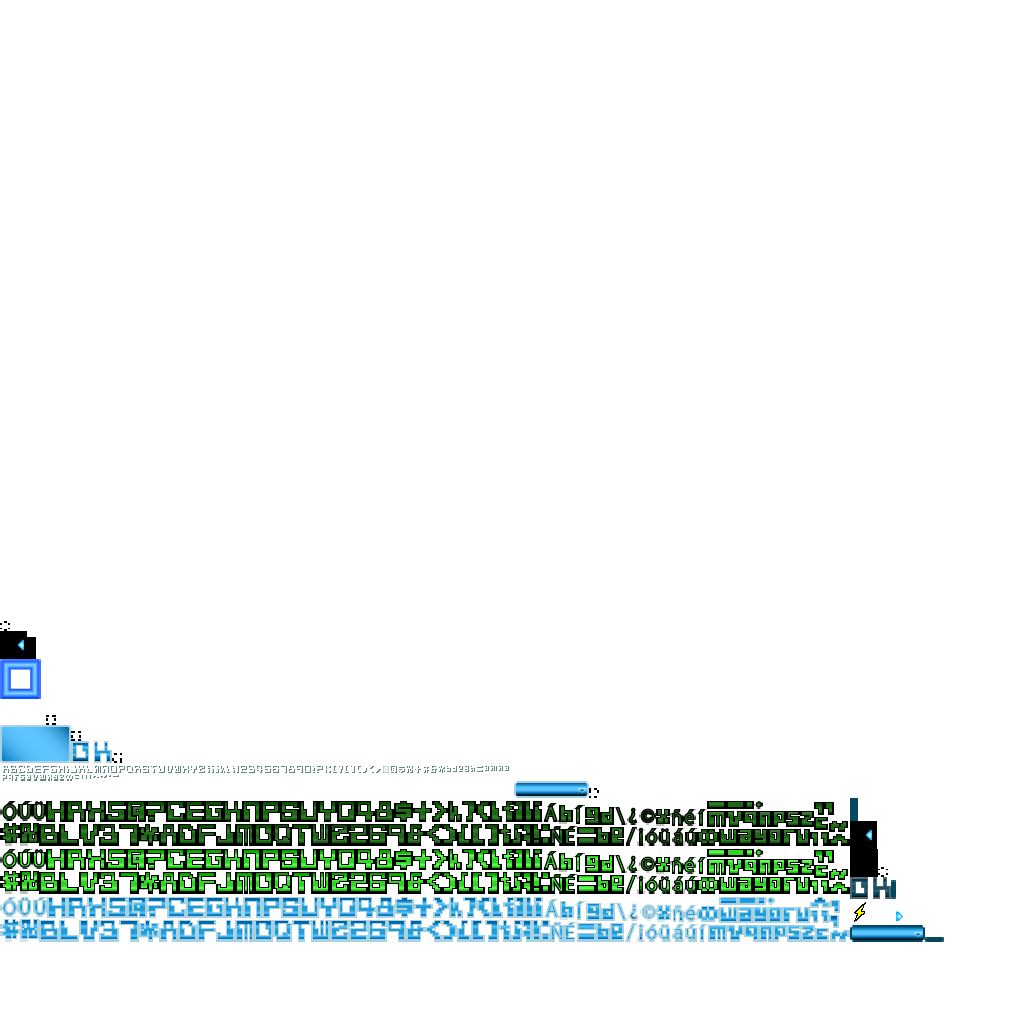
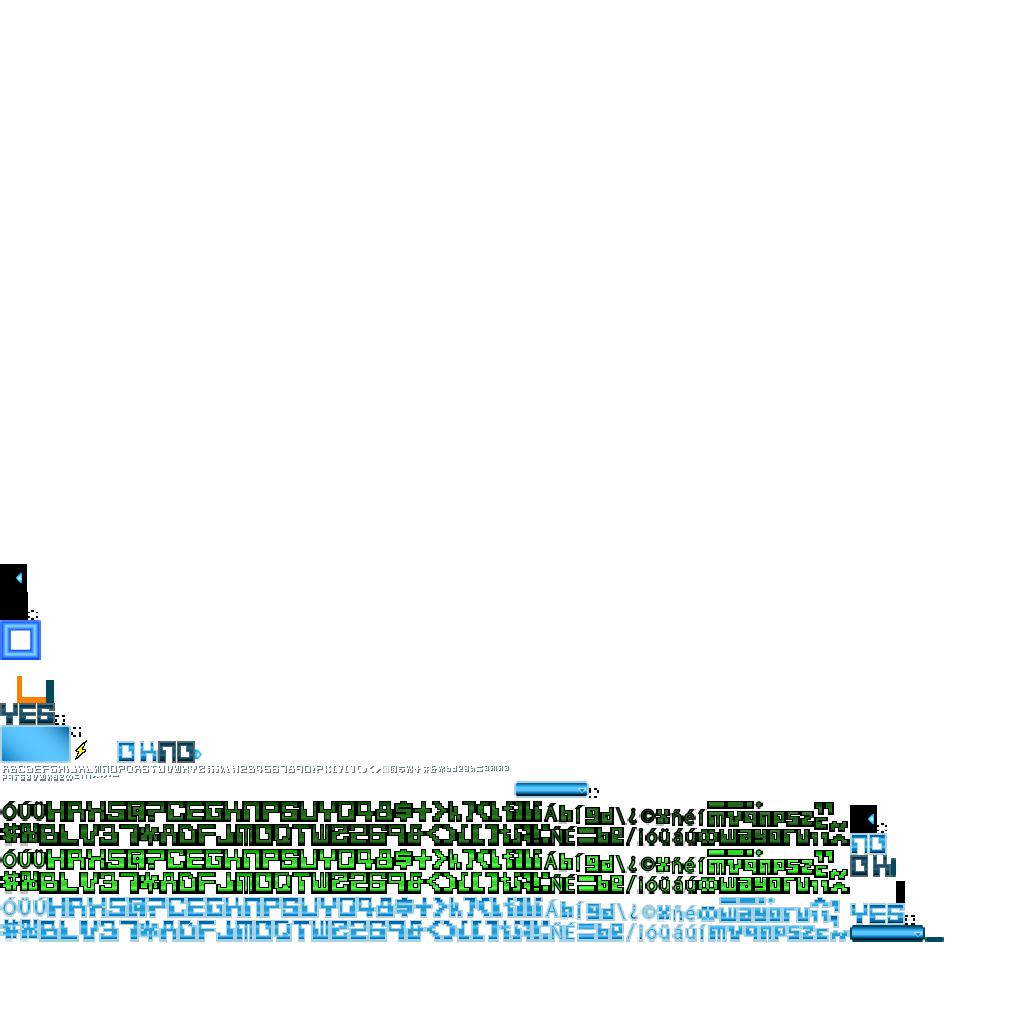
Added Graph simulation of acceleration.

Changed region(s): [[0.8125, 0.7812, 0.9062, 0.9062], [0.0, 0.5312, 0.0625, 0.7188], [0.0625, 0.7188, 0.2188, 0.75]]

diff --git a/core/src/com/ray3k/slipstreamui/Core.java b/core/src/com/ray3k/slipstreamui/Core.java
@@ -4,18 +4,16 @@ import com.badlogic.gdx.ApplicationAdapter;
 import com.badlogic.gdx.Gdx;
 import com.badlogic.gdx.graphics.Color;
 import com.badlogic.gdx.graphics.GL20;
-import com.badlogic.gdx.graphics.Pixmap.Format;
-import com.badlogic.gdx.graphics.Texture.TextureFilter;
-import com.badlogic.gdx.graphics.g2d.SpriteBatch;
-import com.badlogic.gdx.graphics.g2d.TextureRegion;
-import com.badlogic.gdx.graphics.glutils.FrameBuffer;
+import com.badlogic.gdx.math.Interpolation;
 import com.badlogic.gdx.scenes.scene2d.Actor;
 import com.badlogic.gdx.scenes.scene2d.Stage;
+import com.badlogic.gdx.scenes.scene2d.actions.TemporalAction;
 import com.badlogic.gdx.scenes.scene2d.ui.*;
 import com.badlogic.gdx.scenes.scene2d.utils.ChangeListener;
-import com.badlogic.gdx.utils.viewport.FitViewport;
 import com.badlogic.gdx.utils.viewport.StretchViewport;
-import com.badlogic.gdx.utils.viewport.Viewport;
+import space.earlygrey.shapedrawer.GraphDrawer;
+import space.earlygrey.shapedrawer.ShapeDrawer;
+import space.earlygrey.shapedrawer.scene2d.GraphDrawerDrawable;
 
 public class Core extends ApplicationAdapter {
 	private Skin skin;
@@ -45,10 +43,22 @@ public class Core extends ApplicationAdapter {
 		
 		TextButton textButton = new TextButton("GRAND PRIX", skin, "menu");
 		root.add(textButton);
+		textButton.addListener(new ChangeListener() {
+			@Override
+			public void changed(ChangeEvent event, Actor actor) {
+				showVehicleStats();
+			}
+		});
 		
 		root.row();
 		textButton = new TextButton("PRACTICE", skin, "menu-faded");
 		root.add(textButton);
+		textButton.addListener(new ChangeListener() {
+			@Override
+			public void changed(ChangeEvent event, Actor actor) {
+				showVehicleStats();
+			}
+		});
 		
 		root.row();
 		textButton = new TextButton("RECORDS", skin, "menu-faded");
@@ -57,7 +67,7 @@ public class Core extends ApplicationAdapter {
 		root.row();
 		textButton = new TextButton("SETTINGS", skin, "menu-faded");
 		root.add(textButton);
-		root.addListener(new ChangeListener() {
+		textButton.addListener(new ChangeListener() {
 			@Override
 			public void changed(ChangeEvent event, Actor actor) {
 				showSettings();
@@ -113,6 +123,113 @@ public class Core extends ApplicationAdapter {
 		root.row();
 		ImageButton imageButton = new ImageButton(skin, "ok");
 		root.add(imageButton).expandY().bottom();
+		imageButton.addListener(new ChangeListener() {
+			@Override
+			public void changed(ChangeEvent event, Actor actor) {
+				showMenu();
+			}
+		});
+	}
+	
+	private void showVehicleStats() {
+		stage.clear();
+		
+		Stack stack = new Stack();
+		stack.setFillParent(true);
+		stage.addActor(stack);
+		
+		Image image = new Image(skin, "black");
+		stack.add(image);
+		
+		Container container = new Container();
+		stack.add(container);
+		
+		image = new Image(skin, "box-ten");
+		container.setActor(image);
+		container.pad(10);
+		container.fill();
+		
+		Table root = new Table();
+		stack.add(root);
+		
+		Label label = new Label("Blue Falcon", skin, "button");
+		root.add(label).expandY().top();
+		
+		root.row();
+		Table table = new Table();
+		root.add(table);
+		
+		table.defaults().space(5).uniformX().left();
+		label = new Label("ENGINE UNIT", skin);
+		table.add(label);
+		
+		label = new Label(": BF-2001x4", skin);
+		table.add(label);
+		
+		table.row();
+		label = new Label("MAX POWER", skin);
+		table.add(label);
+		
+		label = new Label(": 3200ps", skin);
+		table.add(label);
+		
+		table.row();
+		label = new Label("MAX SPEED", skin);
+		table.add(label);
+		
+		label = new Label(": 457km-h", skin);
+		table.add(label);
+		
+		table.row();
+		label = new Label("WEIGHT", skin);
+		table.add(label);
+		
+		label = new Label(": 1260kg", skin);
+		table.add(label);
+		
+		root.row();
+		label = new Label("ACCELERATION", skin);
+		root.add(label).space(10);
+		
+		root.row();
+		stack = new Stack();
+		root.add(stack).size(150, 75);
+		
+		image = new Image(skin, "acceleration-grid-ten");
+		stack.add(image);
+		
+		container = new Container();
+		stack.add(container);
+		
+		final GraphDrawerDrawable graphDrawerDrawable = new GraphDrawerDrawable(new GraphDrawer(new ShapeDrawer(stage.getBatch(), skin.getRegion("white"))));
+		graphDrawerDrawable.setInterpolation(Interpolation.sine);
+		graphDrawerDrawable.setColor(Color.WHITE);
+		graphDrawerDrawable.setDomainEnd(0);
+		image = new Image(graphDrawerDrawable);
+		container.setActor(image);
+		container.fill().padLeft(25).padBottom(10).padTop(20).padRight(5);
+		image.addAction(new TemporalAction(2f) {
+			@Override
+			protected void update(float percent) {
+				graphDrawerDrawable.setDomainEnd(percent);
+			}
+		});
+		
+		root.row();
+		table = new Table();
+		root.add(table).expandY().bottom();
+		
+		ImageButton imageButton = new ImageButton(skin, "yes");
+		table.add(imageButton);
+		imageButton.addListener(new ChangeListener() {
+			@Override
+			public void changed(ChangeEvent event, Actor actor) {
+				showMenu();
+			}
+		});
+		
+		imageButton = new ImageButton(skin, "no");
+		table.add(imageButton);
 		imageButton.addListener(new ChangeListener() {
 			@Override
 			public void changed(ChangeEvent event, Actor actor) {
